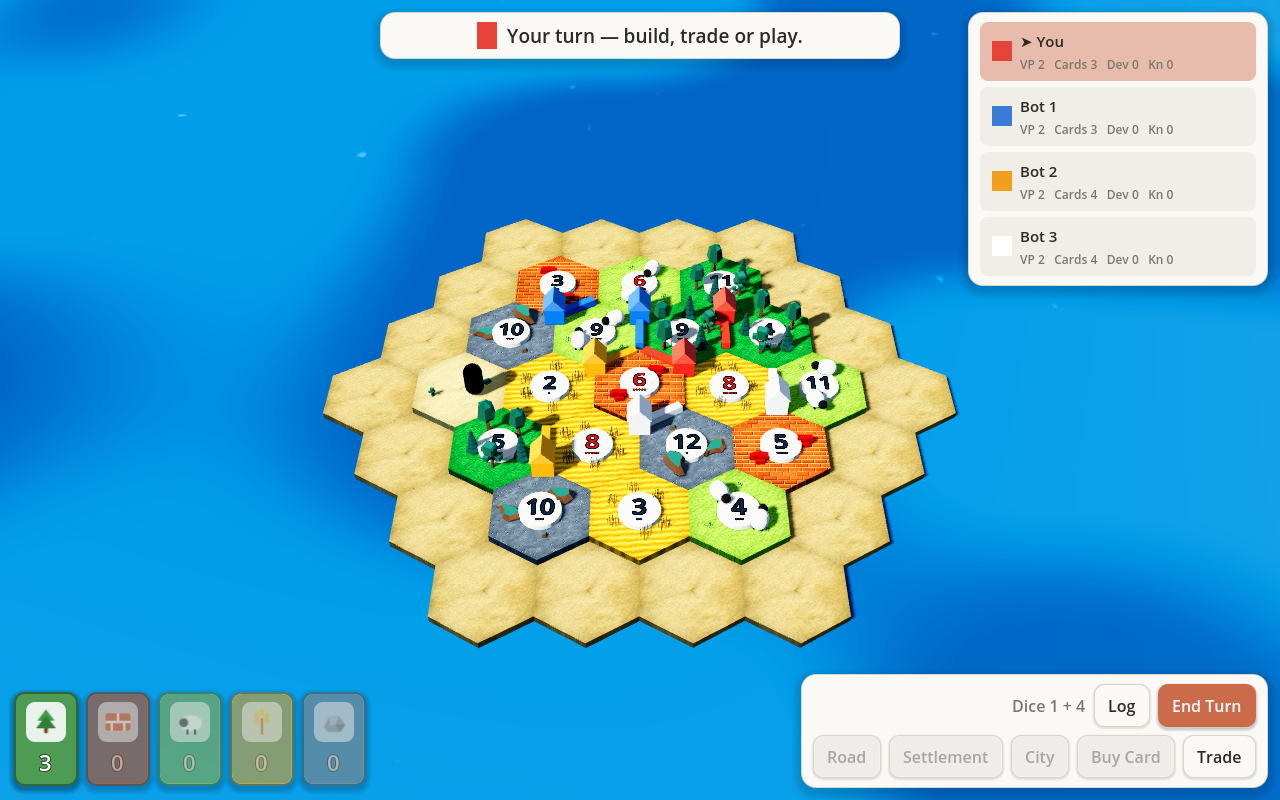
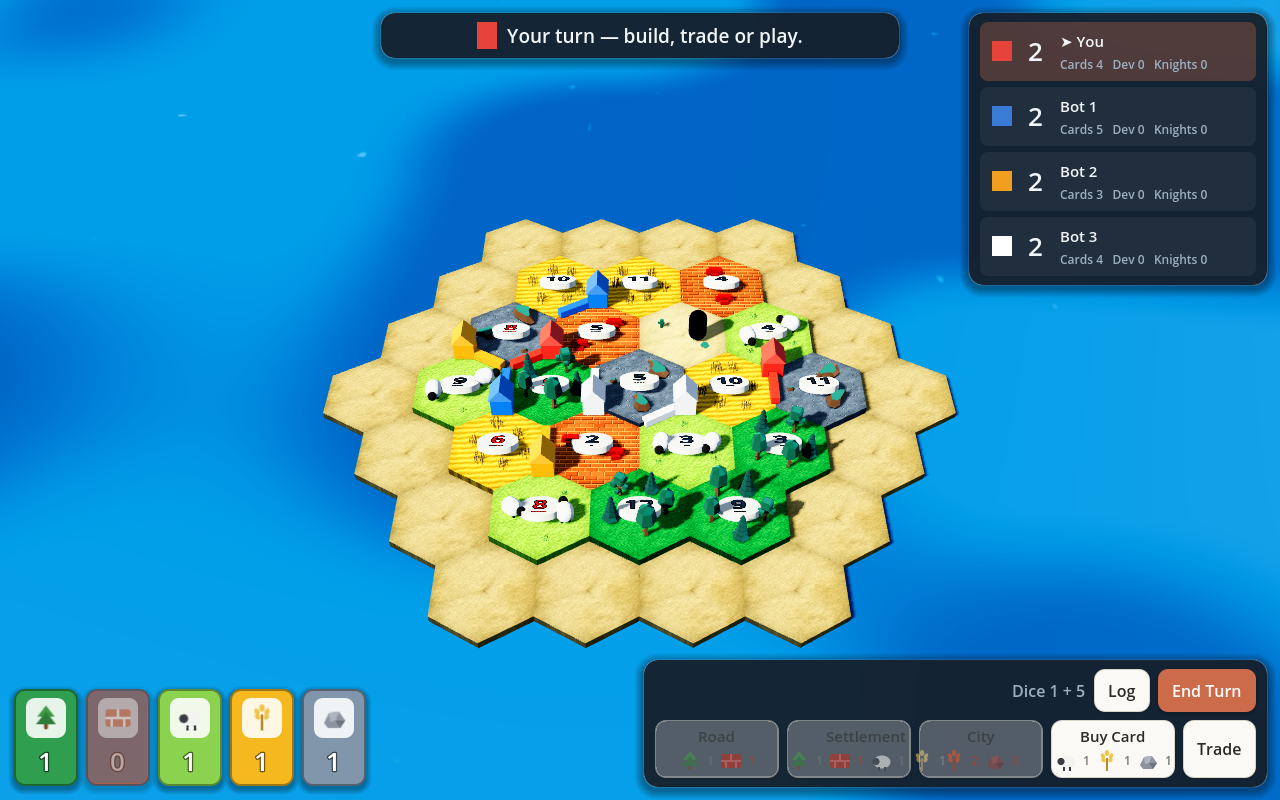
HUD redesign: dark glass panels, UI state machine, cost buttons, roll flash
Switch the in-game HUD to dark navy glass panels (93% opacity, hairline
border, deep shadow) so every zone pops against the bright ocean: top-center
turn banner, top-right opponent stats with a big VP number per row,
bottom-left vibrant hand cards (new RES_VIVID palette, larger counts),
bottom-right action cluster. The menu keeps its ivory look.

Add an explicit UI state machine (GameScreen.UIPhase: WAITING/SETUP/ROLL/
MAIN/ROBBER/DISCARD/OVER) derived from the engine phase; each state maps to
exactly the controls that matter, so the player always sees one clear next
step. Build actions are now cost buttons that display their exact resource
price; on every refresh they disable+fade against the player's inventory
and tint the specific missing resources red.

Board feedback: number tokens float higher and tilt toward the camera for
legibility at the tabletop pitch, and every tile whose number was just
rolled bounces with a golden burst so production is impossible to miss.

Claude-Session: https://claude.ai/code/session_01EeaUzE1kz2DtZ3Ndp3Eh8x

diff --git a/godot/README.md b/godot/README.md
@@ -10,11 +10,19 @@ digital tabletop** (Pummel Party / Mario Party vibe).
 
 ## Modern UI
 
-The interface uses one shared style helper (`UITheme`) for a calm, premium
-feel: warm **ivory panels** with hairline borders and soft shadows over a
-warm charcoal backdrop, a single **terracotta primary** for the main action
-(Roll / End Turn / Start), and quiet bordered secondary buttons for
-everything else:
+The interface uses one shared style helper (`UITheme`). The menu keeps the
+warm ivory/charcoal look; the in-game HUD switches to **dark navy glass
+panels** (`hud_panel`, `#16212e` @ 93%) so every panel pops against the
+bright ocean without hiding the board. One **terracotta primary** carries
+the main action (Roll / End Turn / Start), quiet bordered secondary buttons
+handle the rest, and build buttons are **cost buttons** that show their
+exact price and fade when unaffordable.
+
+The HUD runs a small **state machine** (`GameScreen.UIPhase`:
+`WAITING / SETUP / ROLL / MAIN / ROBBER / DISCARD / OVER`) derived from the
+engine phase — each state shows exactly one clear next step (ROLL shows only
+the roll button; MAIN opens the build/trade set with live affordability;
+opponents' turns strip the cluster down to the dice readout).
 
 - **Start screen** (`MainMenu`): left nav sidebar, **Bots / Casual / Ranked**
   tabs, a styled mode card (difficulty + opponent count), and a big Start button.
